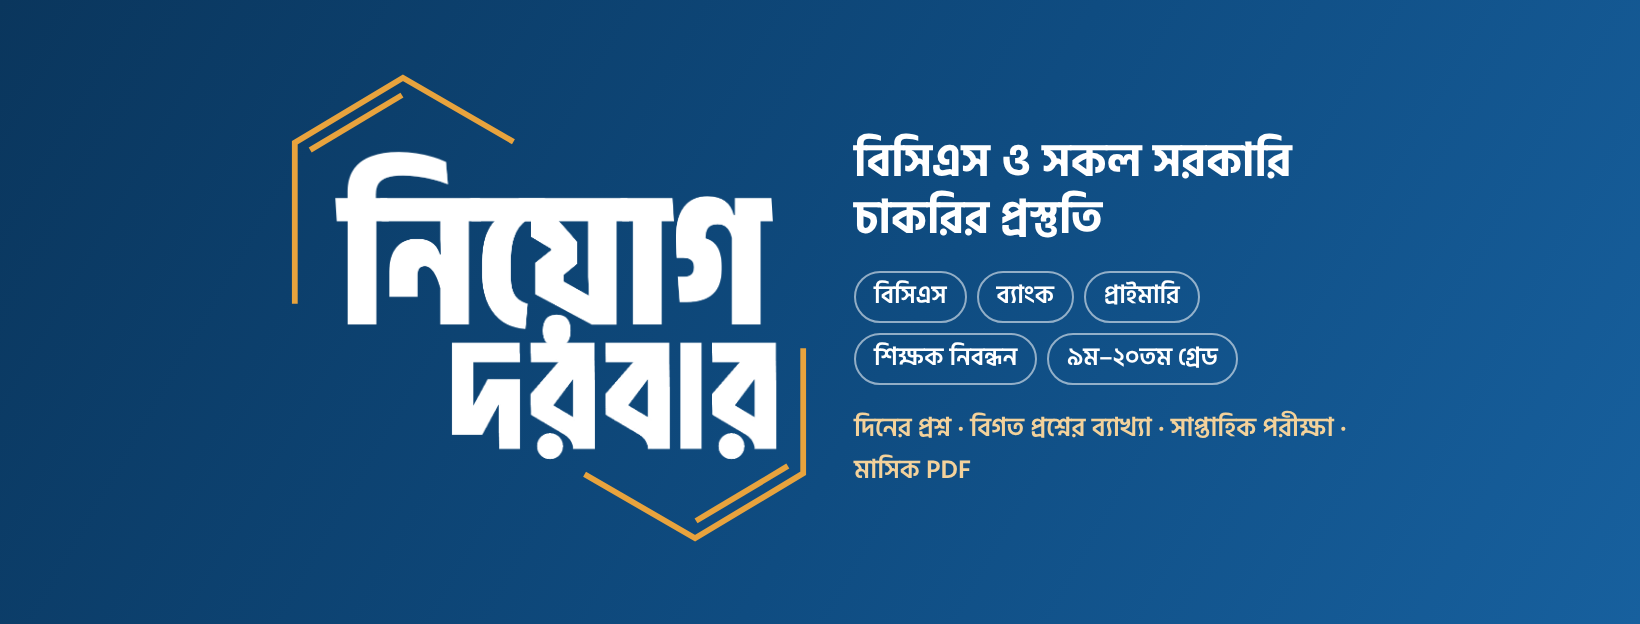
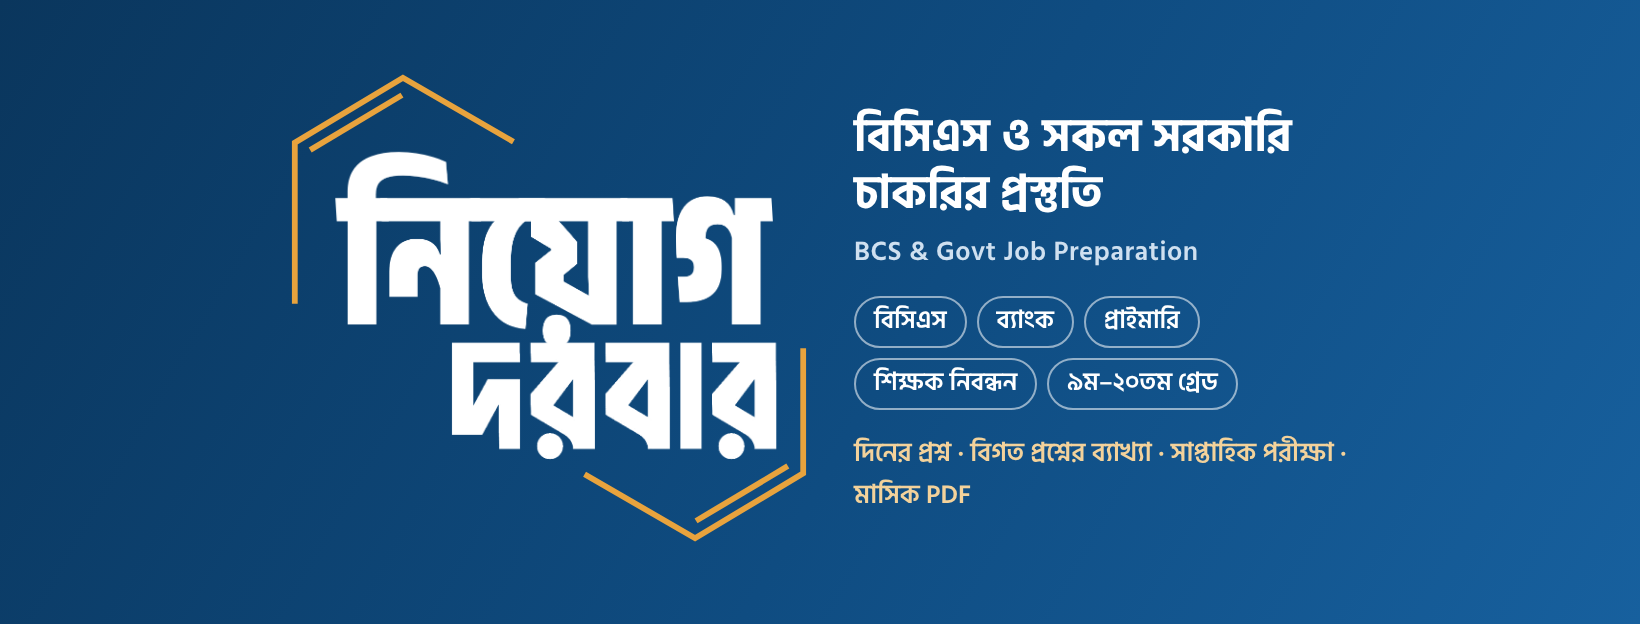
Final page setup kit for নিয়োগ দরবার (BCS & Govt Job Preparation): cover, welcome post, page texts
Claude-Session: https://claude.ai/code/session_012vHy4GxfucFJkm8wC69HNg

Changed region(s): [[0.4976, 0.1522, 0.8396, 0.8221]]

diff --git a/job_prep_bangla/tools/make_logo.py b/job_prep_bangla/tools/make_logo.py
@@ -36,9 +36,30 @@ cover = f"""<div style="width:1640px;height:624px;background:linear-gradient(120
 <div style="position:absolute;left:50%;top:0;transform:translateX(-50%);width:1060px;height:100%;display:flex;align-items:center;gap:46px">
 <div style="flex:none">{svg_c}</div>
 <div><div style="font-size:46px;font-weight:700;line-height:1.25">বিসিএস ও সকল সরকারি<br>চাকরির প্রস্তুতি</div>
+<div style="font-size:27px;font-weight:600;color:#cfe0f0;letter-spacing:.5px;margin-top:6px">BCS &amp; Govt Job Preparation</div>
 <div style="display:flex;gap:10px;margin-top:22px;flex-wrap:wrap">{''.join(f"<div style='border:2px solid rgba(255,255,255,.55);border-radius:40px;padding:2px 18px 5px;font-size:25px;font-weight:600'>{t}</div>" for t in ['বিসিএস','ব্যাংক','প্রাইমারি','শিক্ষক নিবন্ধন','৯ম–২০তম গ্রেড'])}</div>
 <div style="margin-top:22px;font-size:26px;color:#f3d29b;font-weight:600">দিনের প্রশ্ন · বিগত প্রশ্নের ব্যাখ্যা · সাপ্তাহিক পরীক্ষা · মাসিক PDF</div></div></div></div>"""
 page("facebook_cover_1640x624", cover, 1640, 624)
+
+# pinned welcome post (1080x1350)
+s3 = 520 / vw
+svg_w, _, _ = L.logo_html(NAVY, GOLD, scale=s3)
+rows = [("প্রতিদিন সকাল", "দিনের প্রশ্ন: বিগত পরীক্ষার প্রশ্ন, কমেন্টে ব্যাখ্যা"),
+        ("শনিবার রাত", "গুলিয়ে ফেলবেন না: ভুল হওয়া তথ্য পাশাপাশি"),
+        ("রবিবার রাত", "১ মিনিটে ১০টা: রিভিশন রিল"),
+        ("সোমবার রাত", "ফাঁদ প্রশ্ন: যেখানে সবাই ভুল করে"),
+        ("মঙ্গলবার রাত", "চিনে নিন: সাহিত্য, লেখক ও চরিত্র"),
+        ("বুধবার রাত", "প্রাইমারি ও ব্যাংকে আসা ৫ প্রশ্ন"),
+        ("বৃহস্পতিবার রাত", "বারবার আসা প্রশ্ন"),
+        ("শুক্রবার", "সাপ্তাহিক পরীক্ষা + ব্যাখ্যাসহ PDF")]
+tbl = "".join(f"<div style='display:flex;gap:18px;padding:9px 0;border-bottom:2px dashed #d8d2c4'><b style='flex:none;width:250px;color:{NAVY}'>{a}</b><span>{b}</span></div>" for a, b in rows)
+welcome = f"""<div style="width:1080px;height:1350px;background:#f6f3ec;color:#17213a;display:flex;flex-direction:column;align-items:center;padding:60px 70px 0">
+<div>{svg_w}</div>
+<div style="font-size:62px;font-weight:700;color:{NAVY};margin-top:4px">স্বাগতম!</div>
+<div style="font-size:30px;font-weight:600;color:#5b6475;margin-bottom:22px">বিসিএস ও সকল সরকারি চাকরির প্রস্তুতি · প্রতি সপ্তাহের রুটিন</div>
+<div style="width:100%;font-size:30px;line-height:1.35">{tbl}</div>
+<div style="margin-top:auto;width:1080px;height:110px;background:{NAVY};color:#fff;display:flex;align-items:center;justify-content:center;font-size:32px;font-weight:600">ফলো করুন · পোস্ট সেভ করুন · কমেন্টে উত্তর দিন</div></div>"""
+page("welcome_post_1080x1350", welcome, 1080, 1350, css="body{background:#f6f3ec}")
 (OUT / "jobs.json").write_text(json.dumps(jobs))
 subprocess.run(["node", str(T / "logo_render.cjs"), str(OUT / "jobs.json")], check=True)
 for j in jobs: Path(j["html"]).unlink()
